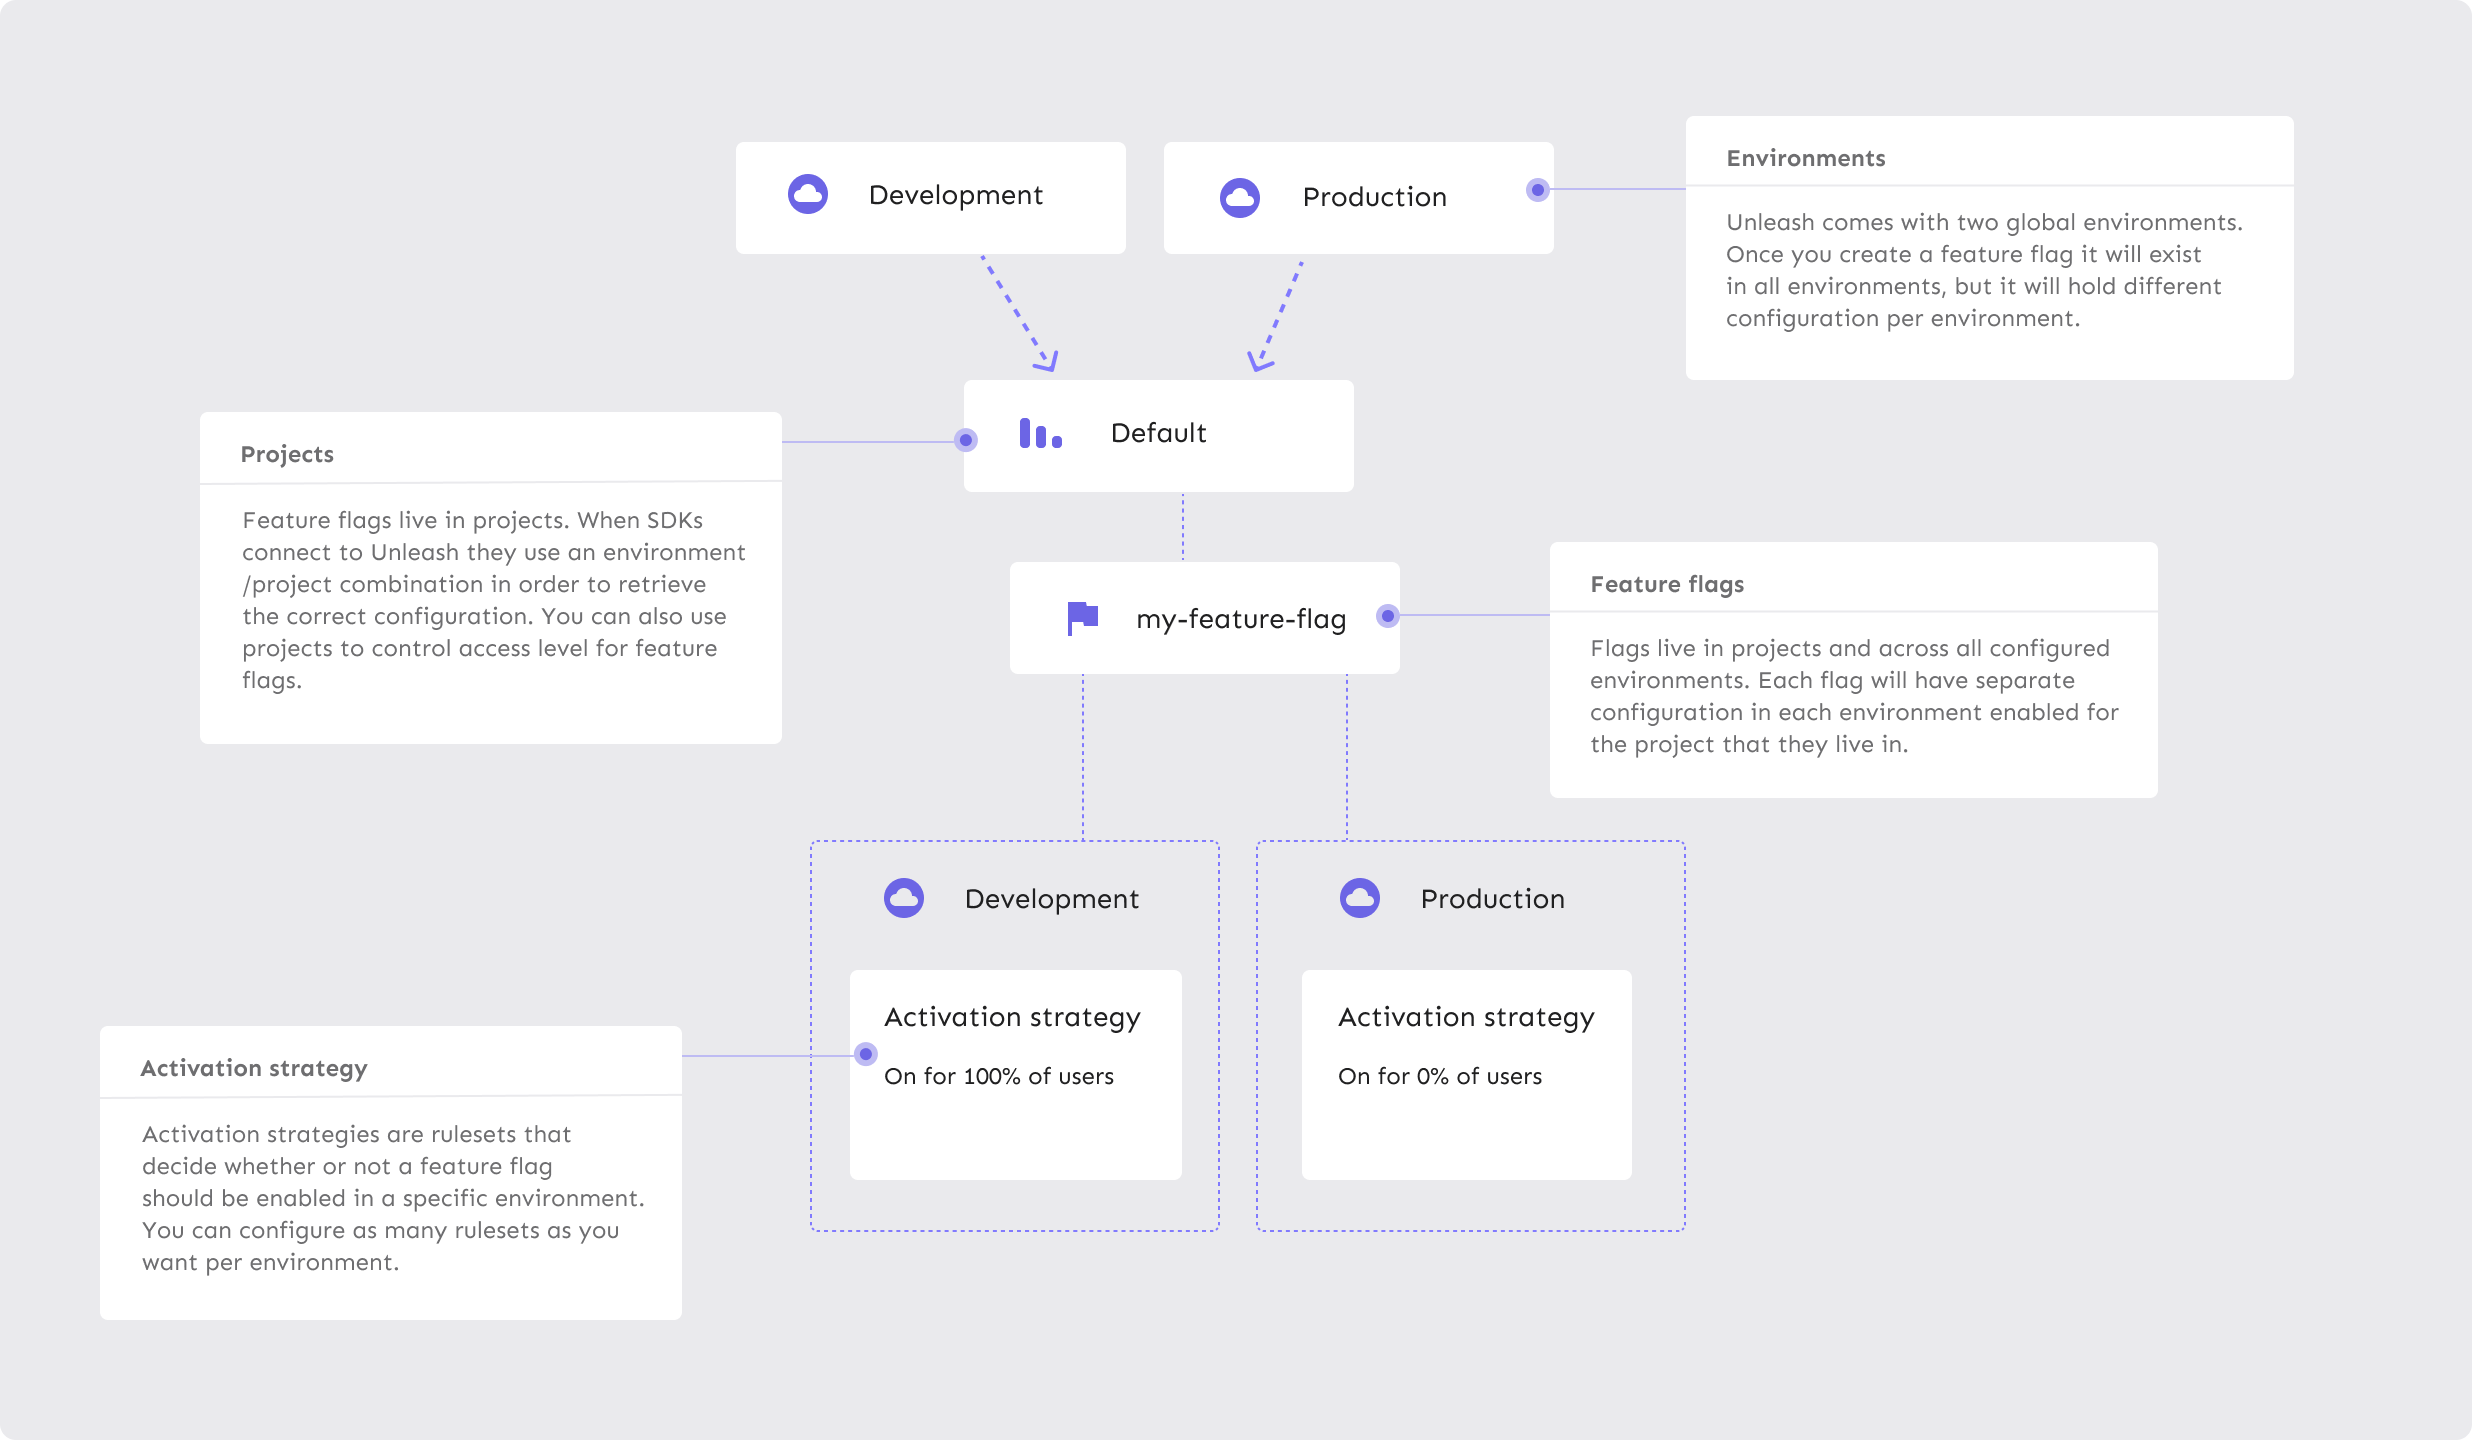
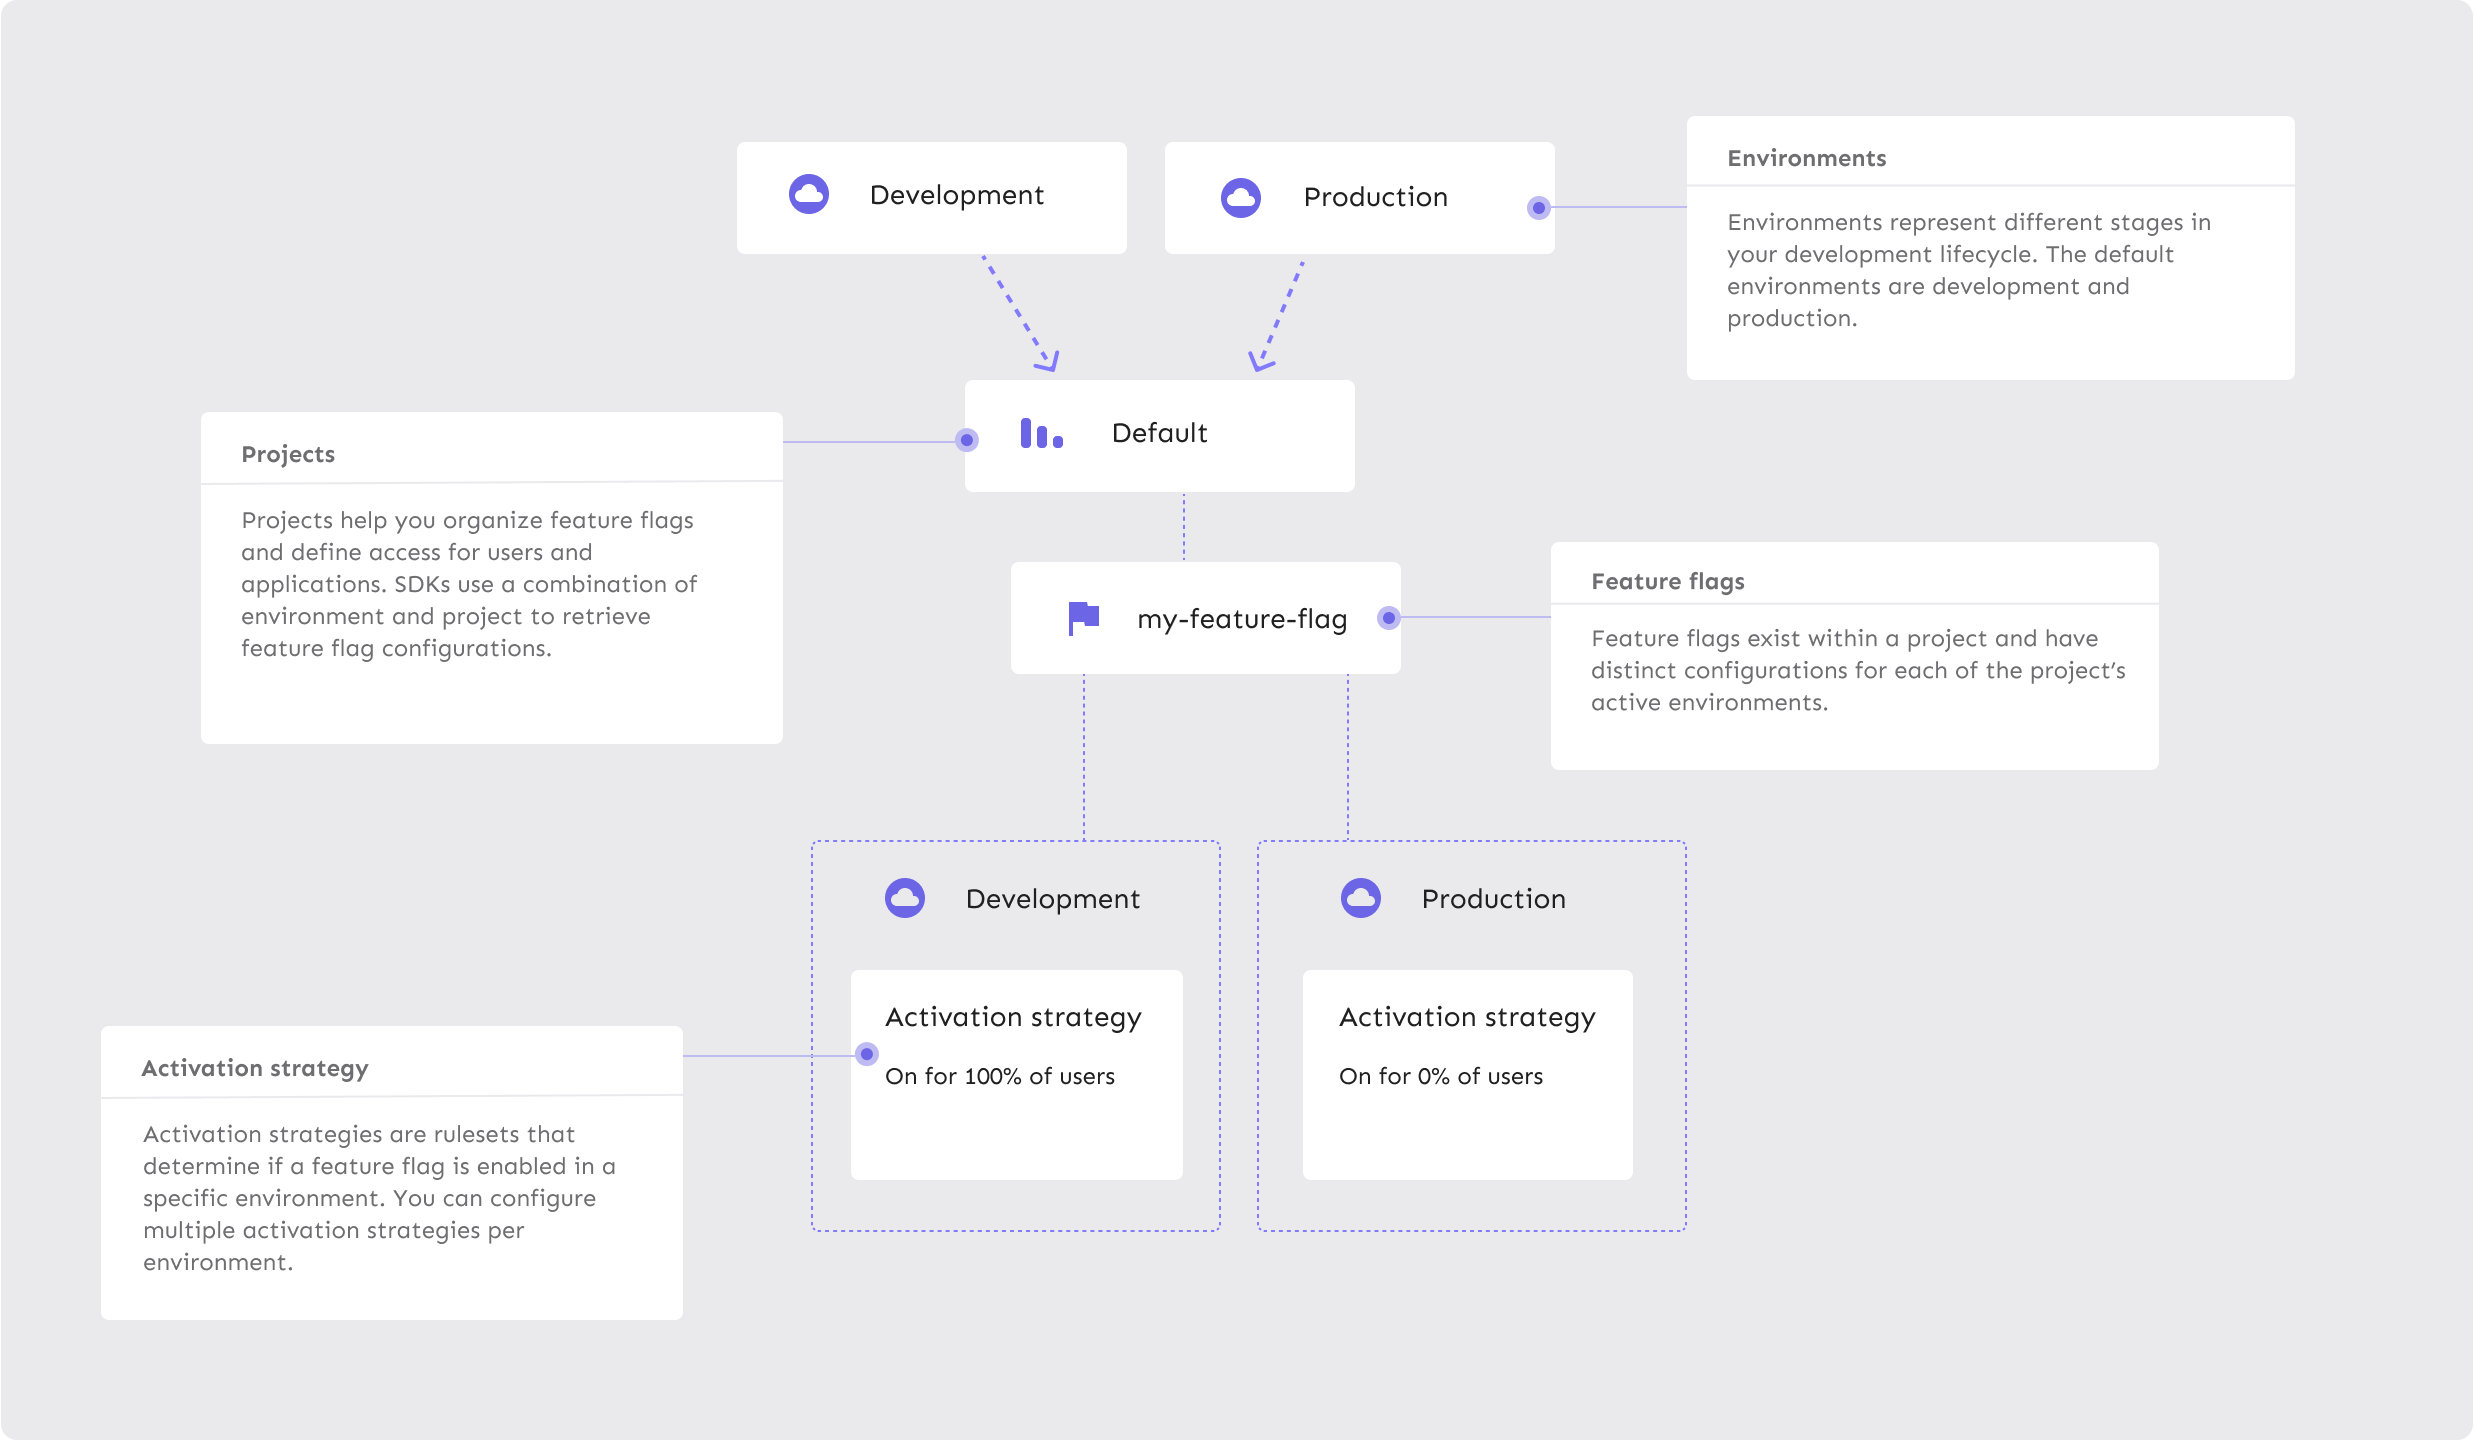
Update UI text in Unleash welcome key concepts page (#8238)

diff --git a/frontend/src/component/personalDashboard/WelcomeDialog.tsx b/frontend/src/component/personalDashboard/WelcomeDialog.tsx
@@ -60,50 +60,47 @@ export const WelcomeDialog: FC<IWelcomeDialogProps> = ({ open, onClose }) => {
                     />
                 </WelcomeLine>
                 <Box>
-                    Here are the concepts you{' '}
+                    Here are the{' '}
                     <Typography
                         component='span'
                         color='primary'
                         fontWeight='bold'
                     >
-                        must understand
+                        key concepts
                     </Typography>{' '}
-                    in order to work effectively with Unleash
+                    you'll need when working with Unleash
                 </Box>
                 <StyledImg src={formatAssetPath(onboardingConcepts)} />
                 <ScreenReaderOnly>
                     <h2>Environments</h2>
                     <p>
-                        Unleash comes with two global environments. Once you
-                        create a feature flag it will exist in all environments,
-                        but it will hold different configuration per
-                        environment.
+                        Environments represent different stages in your
+                        development lifecycle. The default environments are
+                        development and production.
                     </p>
                     <h2>Projects</h2>
                     <p>
-                        Feature flags live in projects. When SDKs connect to
-                        Unleash they use an environment /project combination in
-                        order to retrieve the correct configuration. You can
-                        also use projects to control access level for feature
-                        flags.
+                        Projects help you organize feature flags and define
+                        access for users and applications. SDKs use a
+                        combination of environment and project to retrieve
+                        feature flag configurations.
                     </p>
                     <h2>Feature flags</h2>
                     <p>
-                        Flags live in projects and across all configured
-                        environments. Each flag will have separate configuration
-                        in each environment enabled for the project that they
-                        live in.
+                        Feature flags exist within a project and have distinct
+                        configurations for each of the project's active
+                        environments.
                     </p>
                     <h2>Activation strategy</h2>
                     <p>
-                        Activation strategies are rulesets that decide whether
-                        or not a feature flag should be enabled in a specific
-                        environment. You can configure as many rulesets as you
-                        want per environment.
+                        Activation strategies are rulesets that determine if a
+                        feature flag is enabled in a specific environment. You
+                        can configure multiple activation strategies per
+                        environment.
                     </p>
                 </ScreenReaderOnly>
                 <Button variant='contained' onClick={onClose}>
-                    Got it, let's get started
+                    Got it, let's get started!
                 </Button>
             </ContentWrapper>
         </StyledDialog>
